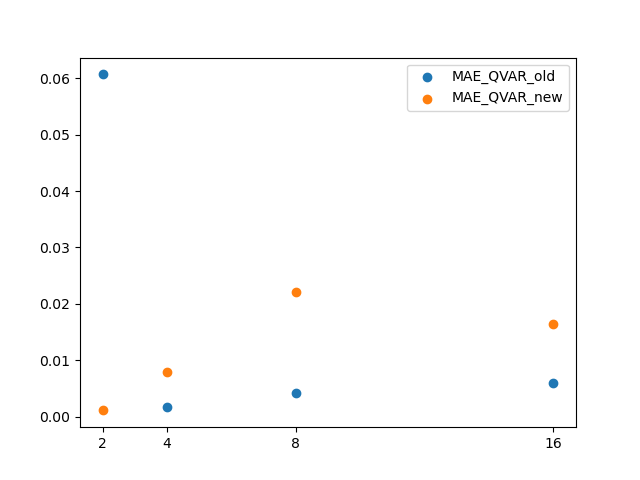
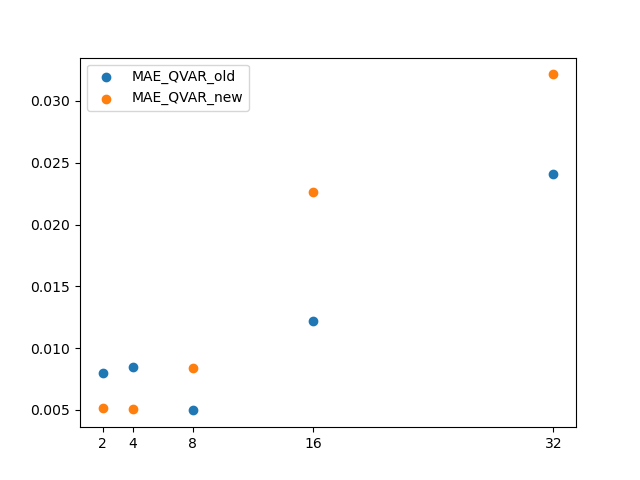
new test

diff --git a/test.py b/test.py
@@ -8,6 +8,7 @@ from qiskit.quantum_info import Statevector, state_fidelity, DensityMatrix
 from qiskit.transpiler import CouplingMap
 from qvar import QVAR, QVAR_old
 import matplotlib.pyplot as plt
+import csv
 
 
 def _register_switcher(circuit, value, qubit_index):
@@ -79,9 +80,9 @@ def test_ffqram(N):
 
 def test_noise():
 
-    N_list = [2,4,8,16]
+    N_list = [2,4,8,16,32]
     trial = 5
-    seeds = 10
+    seeds = 5
 
     mae_qold = []
     mae_qnew = []
@@ -118,8 +119,8 @@ def test_noise():
                     U.mcry(np.arcsin(val)*2, i[0:], r) 
                     _register_switcher(U, index, i)
 
-                q_var_old = QVAR_old(U, var_index=list(range(n)), ps_index=[U.num_qubits-1], version='STATEVECTOR', n_h_gates=n, backend=GenericBackendV2(3*n+2, noise_info=True, seed=s*123))
-                q_var_new = QVAR(U, var_index=list(range(n)), ps_index=[U.num_qubits-1], version='STATEVECTOR', n_h_gates=n, backend=GenericBackendV2(2*n+2, noise_info=True, seed=s*123))
+                q_var_old = QVAR_old(U, var_index=list(range(n)), ps_index=[U.num_qubits-1], version='SHOTS', n_h_gates=n, backend=GenericBackendV2(3*n+2, noise_info=True, seed=s*123))
+                q_var_new = QVAR(U, var_index=list(range(n)), ps_index=[U.num_qubits-1], version='SHOTS', n_h_gates=n, backend=GenericBackendV2(2*n+2, noise_info=True, seed=s*123))
                 
                 q_old_seed.append(q_var_old)
                 q_new_seed.append(q_var_new)
@@ -155,12 +156,14 @@ def test_noise():
 
 def test_noise_density_matrix():
 
-    N_list = [16]
-    trial = 1
-    seeds = 1
+    N_list = [2,4,8,16,32]
+    trial = 10
+    seeds = 3
 
     mean_trials_old = []
     mean_trials_new = []
+    std_trials_old = []
+    std_trials_new = []
 
     for N in N_list:
         print("N = " + str(N))
@@ -215,14 +218,59 @@ def test_noise_density_matrix():
         
         mean_trials_old.append(np.mean(q_old))
         mean_trials_new.append(np.mean(q_new))
+        std_trials_old.append(np.std(q_old))
+        std_trials_new.append(np.std(q_new))
         
-
+    '''
     plt.scatter(N_list, mean_trials_old, label="Fidelity old")
     plt.scatter(N_list, mean_trials_new, label="Fidelity new")
     plt.xticks(N_list)
     plt.legend()
     plt.savefig("fidelity.png")
+    '''
+
+    rows = zip(N_list, mean_trials_old, std_trials_old, mean_trials_new, std_trials_new)
+
+    # Write to a CSV file
+    with open('results.csv', 'w', newline='') as file:
+        writer = csv.writer(file)
+        writer.writerow(['N', 'mean_fidelity_old', 'std_trials_old', 'mean_trials_new', 'std_trials_new'])  # Write header
+        writer.writerows(rows)  # Write rows
     
+    print_result(N_list, mean_trials_old, mean_trials_new, std_trials_old, std_trials_new)
+
+def print_result(N_list, mean_trials_old, mean_trials_new, std_trials_old, std_trials_new):
+    fig, ax = plt.subplots(figsize=(10,8))
+
+    #color1 = '#f1a340'
+    #color2 = '#998ec3'
+    color1 = '#fc8d59'
+    color2 = '#91bfdb'
+    a = 0.3
+
+    plt.rcParams.update({'font.size': 22})
+    plt.tick_params(labelsize=22)
+
+    mean_trials_old = np.array(mean_trials_old)
+    mean_trials_new = np.array(mean_trials_new)
+    std_trials_old = np.array(std_trials_old)
+    std_trials_new = np.array(std_trials_new)
+
+    x = [str(n) for n in N_list]
+
+    ax.errorbar(x, mean_trials_old, yerr=std_trials_old, label='QVAR old', color=color1, ecolor=color1, capsize=10, capthick=2)
+    line_1, = plt.plot(x, mean_trials_old, color=color1, label='QVAR old')
+    fill_1 = plt.fill_between(x, mean_trials_old - std_trials_old, mean_trials_old + std_trials_old, color=color1, alpha=a)
+
+    ax.errorbar(x, mean_trials_new, yerr=std_trials_new, label='QVAR new', color=color2, ecolor=color2, capsize=10, capthick=2)
+    line_2, = plt.plot(x, mean_trials_new, color=color2, label='QVAR new')
+    fill_2 = plt.fill_between(x, mean_trials_new - std_trials_new, mean_trials_new + std_trials_new, color=color2, alpha=a)
+
+    plt.xlabel('N', fontsize=22)
+    plt.ylabel('Fidelity', fontsize=22)
+
+    plt.legend([(line_1, fill_1), (line_2, fill_2)], ['QVAR old', 'QVAR new'])
+    plt.savefig("fidelity.png")
 
 if __name__ == "__main__":
 
@@ -233,5 +281,5 @@ if __name__ == "__main__":
     print("\n FF-QRAM TEST \n")
     test_ffqram(8)
     '''
-
+    #test_noise()
     test_noise_density_matrix()
